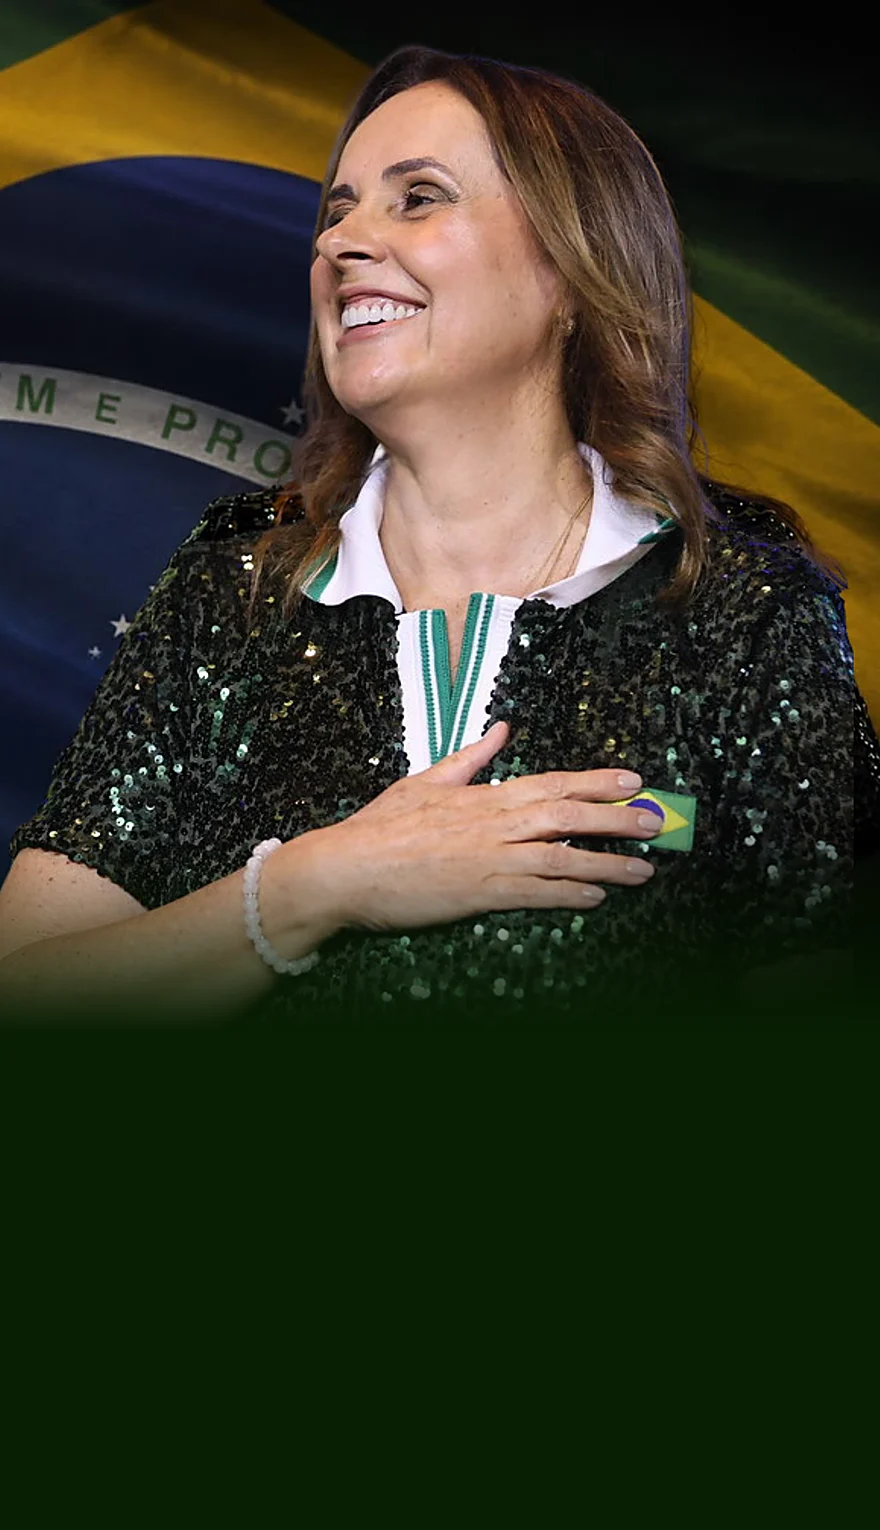
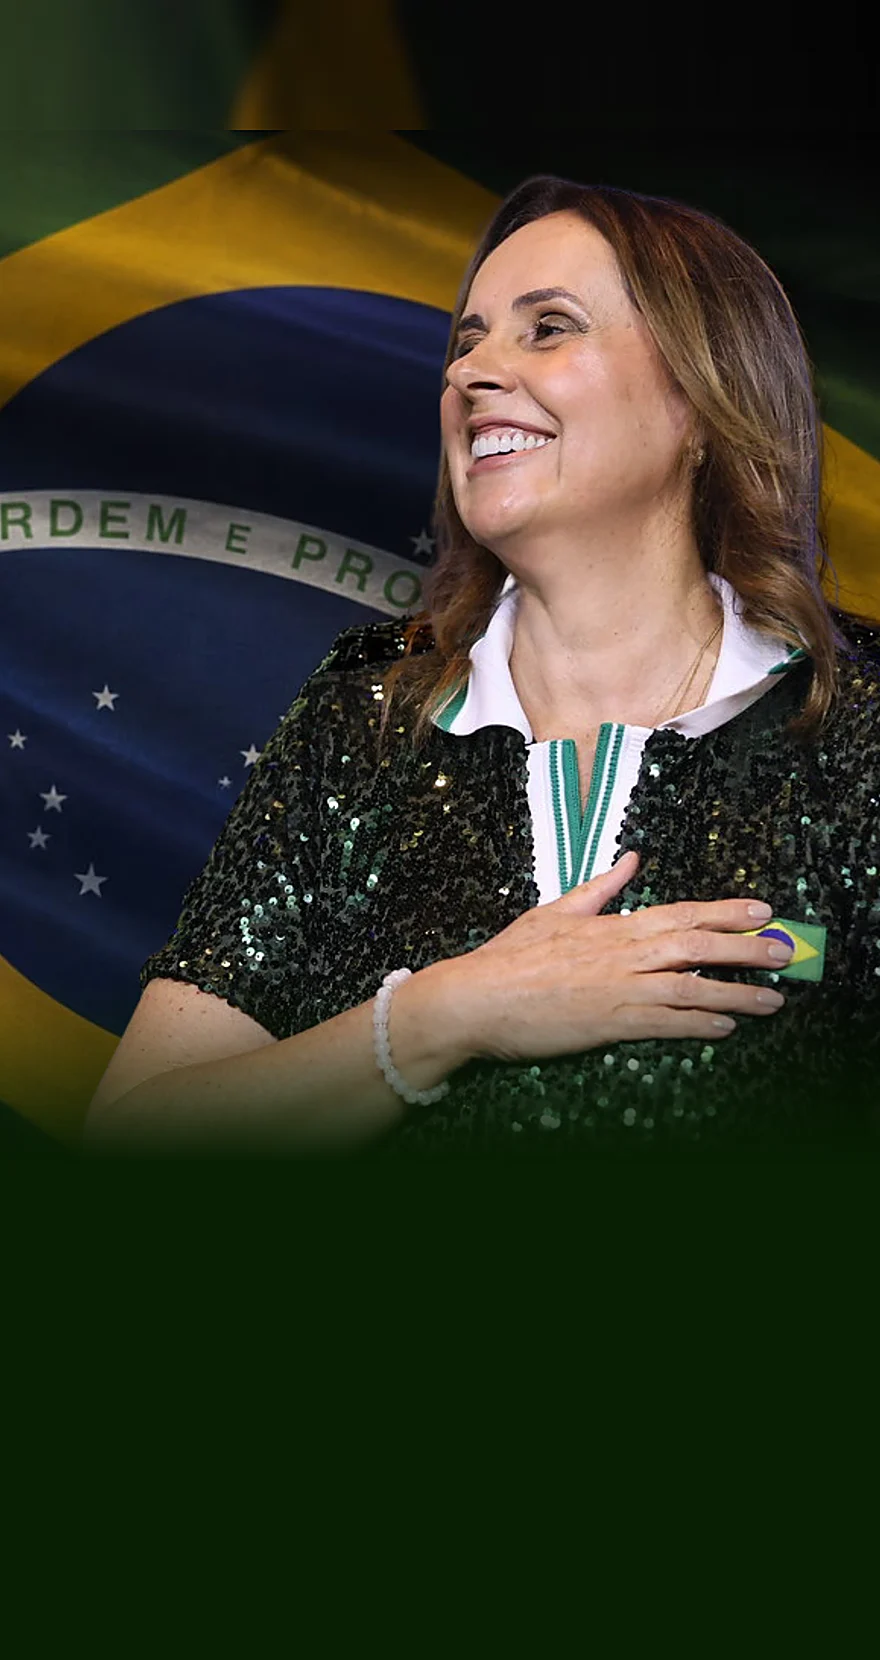
v5.1.1 — capa mobile: respiro acima da cabeça, ela mais ao canto com mais bandeira, conteúdo compacto para a barra das RAs caber na 1ª tela em qualquer altura

diff --git a/assets/css/style.css b/assets/css/style.css
@@ -1696,3 +1696,13 @@ h1,h2,h3{font-weight:800;letter-spacing:-.025em}
   #hero{padding-bottom:3.4rem}
   .hero-ia{top:4.2rem;font-size:.55rem}
 }
+
+/* v5.1.1 — capa mobile compacta: tudo + barra das RAs cabem na 1ª tela */
+@media (max-width:820px){
+  #hero{padding-top:4.2rem;padding-bottom:3.2rem}
+  #hero .hero-conteudo h1{font-size:clamp(1.75rem,6.8vw,2.3rem);margin:.8rem 0 1rem}
+  .hero-tag{font-size:.72rem;padding:.42rem .95rem}
+  .hero-cred{gap:.45rem;margin-bottom:1.3rem}
+  .hero-cred span{font-size:.76rem;padding:.38rem .78rem}
+  .hero-cta .btn{padding:.85rem 1.5rem;font-size:.92rem}
+}

diff --git a/index.html b/index.html
@@ -26,7 +26,7 @@
   <link href="https://fonts.googleapis.com/css2?family=Plus+Jakarta+Sans:ital,wght@0,400..800;1,400..800&display=swap" rel="stylesheet">
   <link rel="stylesheet" href="https://cdnjs.cloudflare.com/ajax/libs/font-awesome/6.5.0/css/all.min.css">
 
-  <link rel="stylesheet" href="assets/css/style.css?v=1784097601">
+  <link rel="stylesheet" href="assets/css/style.css?v=1784098380">
 </head>
 <body>
 
@@ -679,6 +679,6 @@
     <button class="btn btn-cheio" id="ck-sim">Aceitar</button>
   </div>
 
-  <script src="assets/js/main.js?v=1784097601" defer></script>
+  <script src="assets/js/main.js?v=1784098380" defer></script>
 </body>
 </html>